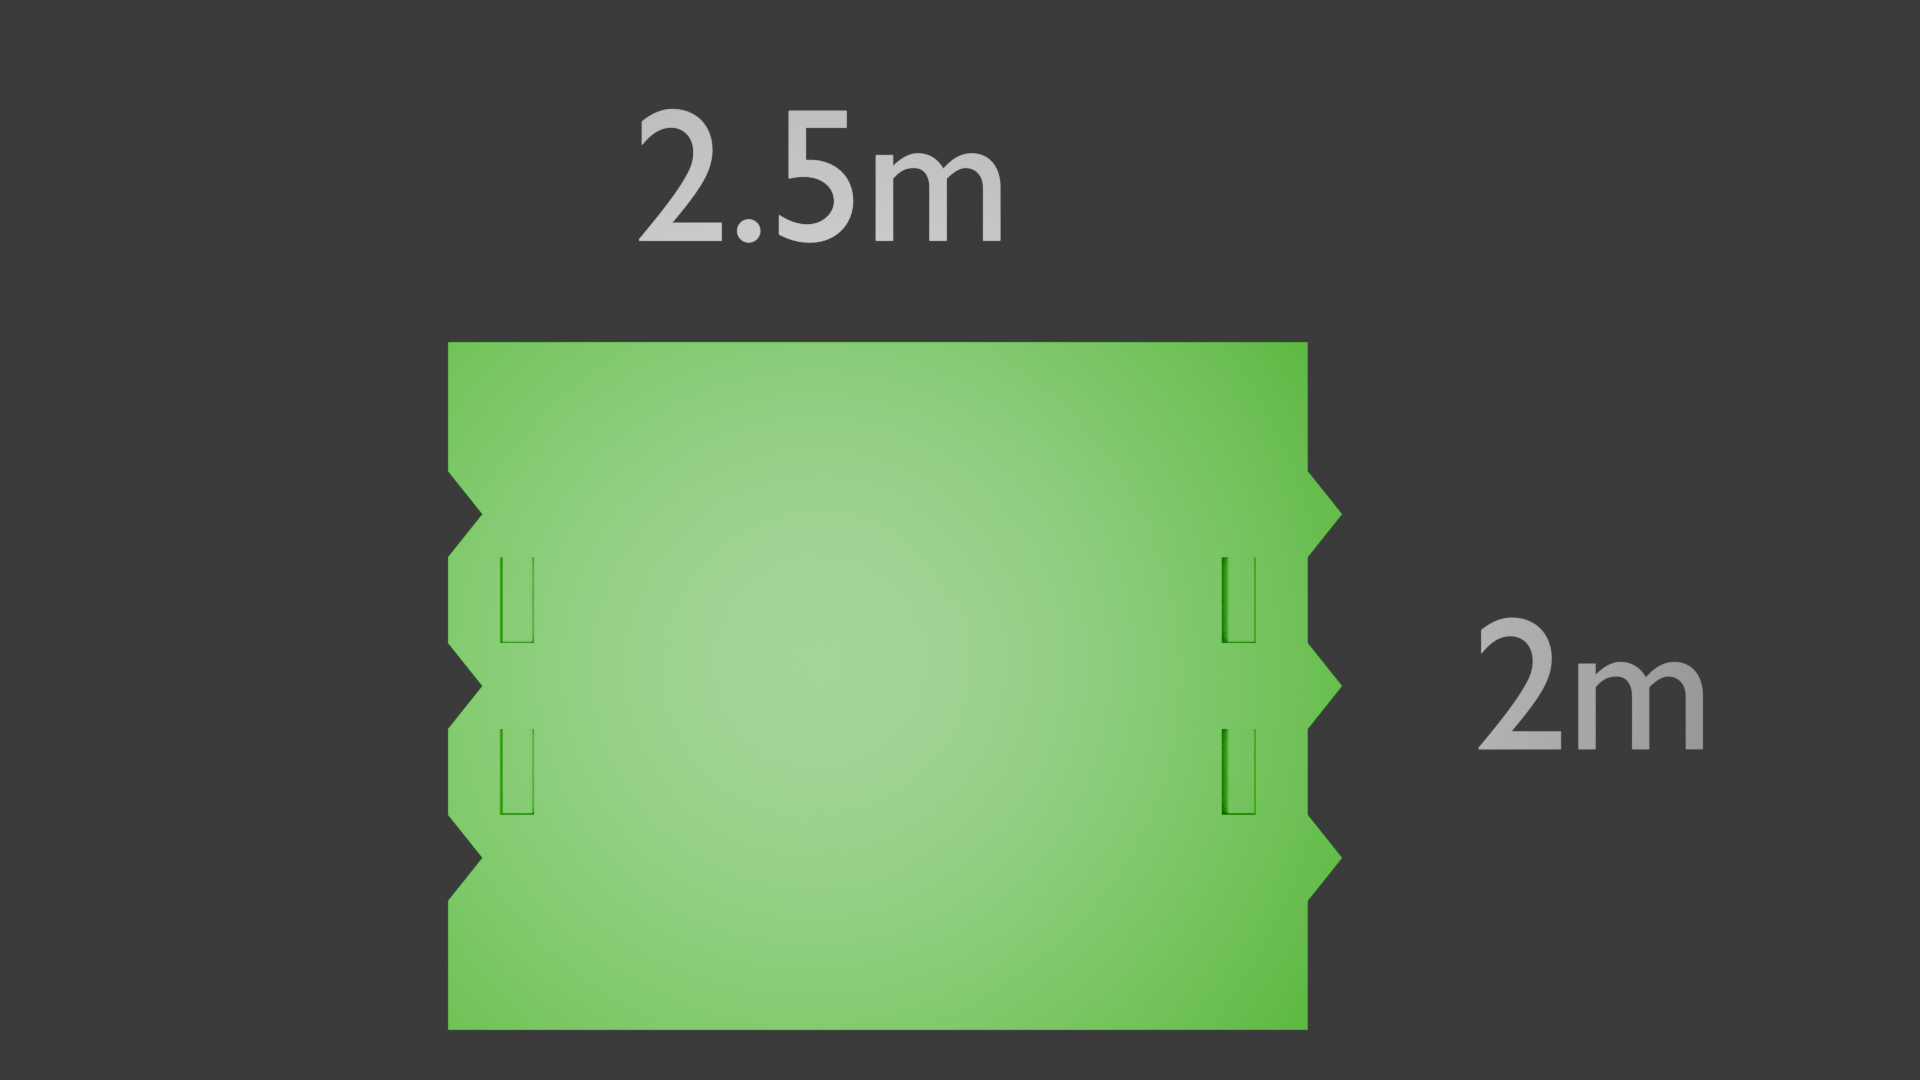
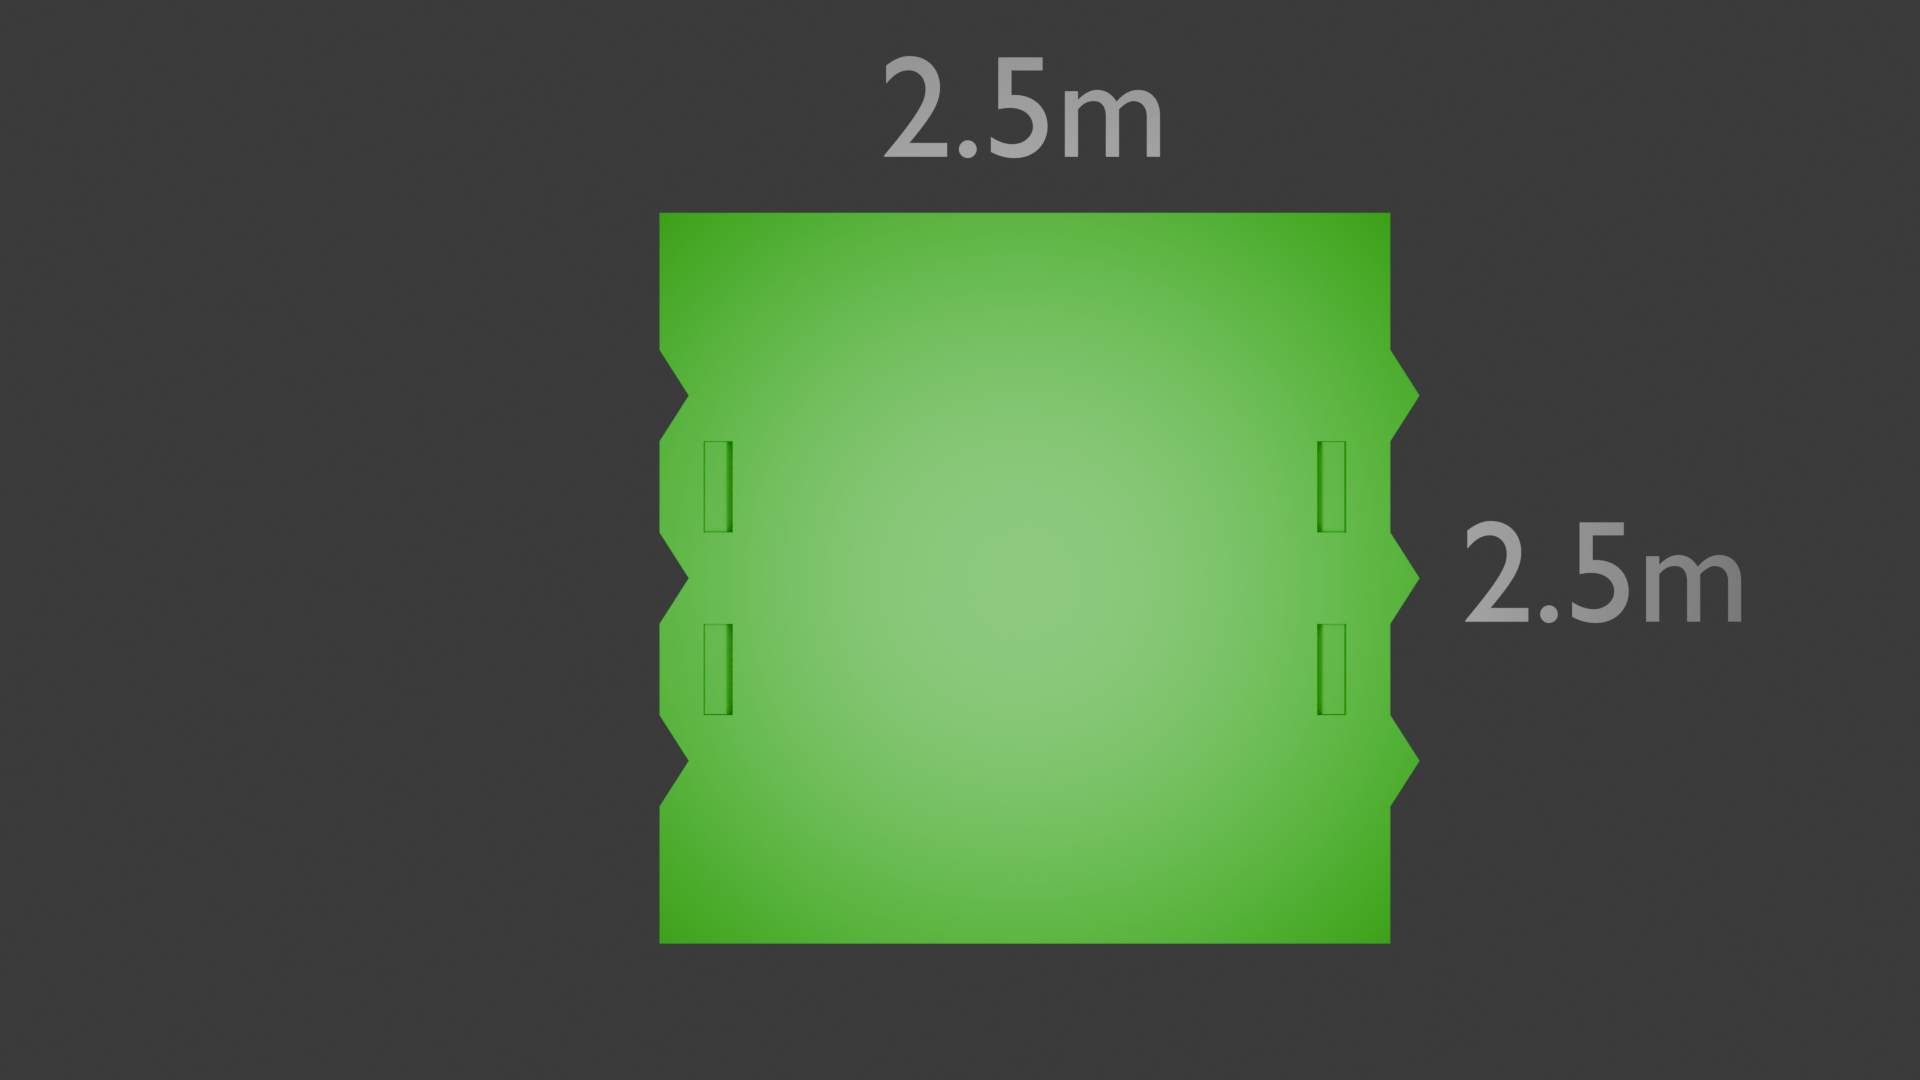
update

Changed region(s): [[0.2188, 0.0306, 0.9062, 0.9778]]

diff --git a/src/routes/other-considerations.tsx b/src/routes/other-considerations.tsx
@@ -1,12 +1,16 @@
 import { createFileRoute } from "@tanstack/react-router";
-import { PageShell} from "@/components/report";
+import { PageShell } from "@/components/report";
 import journeyMap from "../img/journey_map.png";
 
 export const Route = createFileRoute("/other-considerations")({
   head: () => ({
     meta: [
       { title: "Other Considerations" },
-      { name: "description", content: "Cultural, environmental, and long-term considerations for the Modular Service Hub." },
+      {
+        name: "description",
+        content:
+          "Cultural, environmental, and long-term considerations for the Modular Service Hub.",
+      },
     ],
   }),
   component: Page,
@@ -18,7 +22,8 @@ function Page() {
       <h2>Cultural approval and governance</h2>
       <p>
         Deployment of any unit is subject to approval by Traditional Owners and YAC. Site selection,
-        signage, and use protocols are determined by the community.
+        signage, and use protocols are determined by the community (EWB Challenge, 2026; Yintjingga
+        Aboriginal Corporation, n.d.).
       </p>
 
       <h2>Environmental impact</h2>
@@ -32,7 +37,7 @@ function Page() {
       <p>
         Wet-season conditions limit road access for several months of the year. Maintenance and
         re-supply schedules are aligned with the dry season, and the hub is sized to be
-        self-sufficient through the wet season.
+        self-sufficient through the wet season (EWB Challenge, 2026).
       </p>
 
       <h2>Long-term maintenance and sustainability</h2>

diff --git a/src/routes/references.tsx b/src/routes/references.tsx
@@ -34,13 +34,6 @@ function Page() {
         </li>
 
         <li>
-          Lama Lama Country. (n.d.). <em>Lama Lama Rangers</em>.{" "}
-          <a href="https://www.lamalama.org.au/lama-lama-rangers/" target="_blank" rel="noreferrer">
-            https://www.lamalama.org.au/lama-lama-rangers/
-          </a>
-        </li>
-
-        <li>
           Queensland Government. (2019). <em>Climate change in the Cape York region</em>.{" "}
           <a
             href="https://www.qld.gov.au/__data/assets/pdf_file/0019/68140/cape-york-climate-change-impact-summary.pdf"
@@ -51,8 +44,19 @@ function Page() {
           </a>
         </li>
 
+        <li>
+          Yintjingga Aboriginal Corporation. (n.d.). <em>Welcome to Lama Lama Country</em>.{" "}
+          <a href="https://www.lamalama.org.au/" target="_blank" rel="noreferrer">
+            https://www.lamalama.org.au/
+          </a>
+        </li>
 
-
+        <li>
+          Yintjingga Aboriginal Corporation. (n.d.). <em>Lama Lama Rangers</em>.{" "}
+          <a href="https://www.lamalama.org.au/lama-lama-rangers/" target="_blank" rel="noreferrer">
+            https://www.lamalama.org.au/lama-lama-rangers/
+          </a>
+        </li>
 
         <li style={{ paddingTop: "40px" }}>
           <a

diff --git a/src/routes/prototyping.tsx b/src/routes/prototyping.tsx
@@ -70,7 +70,7 @@ function Page() {
       <p>
         The prototype was developed digitally using Blender to visualise the overall layout and
         function of the Modular Service Hub. The team created a digital model of one hub unit to
-        explore the size, spacing, access points and arrangement of the 2.5m x 2m modules without
+        explore the size, spacing, access points and arrangement of the 2.5m x 2.5m modules without
         building a physical model.
       </p>
 
@@ -166,7 +166,7 @@ function Page() {
       <h2>Summary</h2>
       <p>
         The digital prototype indicated that the Modular Service Hub is a practical design for
-        development. It showed how a 2.5m x 2m module could work as a basic building unit and how
+        development. It showed how a 2.5m x 2.5m module could work as a basic building unit and how
         the hub could be expanded over time through additional modules. However, further community
         feedback, technical review and real-world testing would be required before implementation.
       </p>

diff --git a/src/routes/problem-criteria.tsx b/src/routes/problem-criteria.tsx
@@ -21,7 +21,8 @@ function Page() {
       <p>
         The Lama Lama people and Rangers need a transportable and durable service hub that supports
         storage, rest, planning and fieldwork activities at remote outstations, so that they can
-        work more effectively and safely (EWB, 2026; Lama Lama Country, n.d.).
+        work more effectively and safely (Engineers Without Borders Australia, 2026; Yintjingga
+        Aboriginal Corporation, n.d.).
       </p>
 
       <h2>Problem and ideal future situation</h2>
